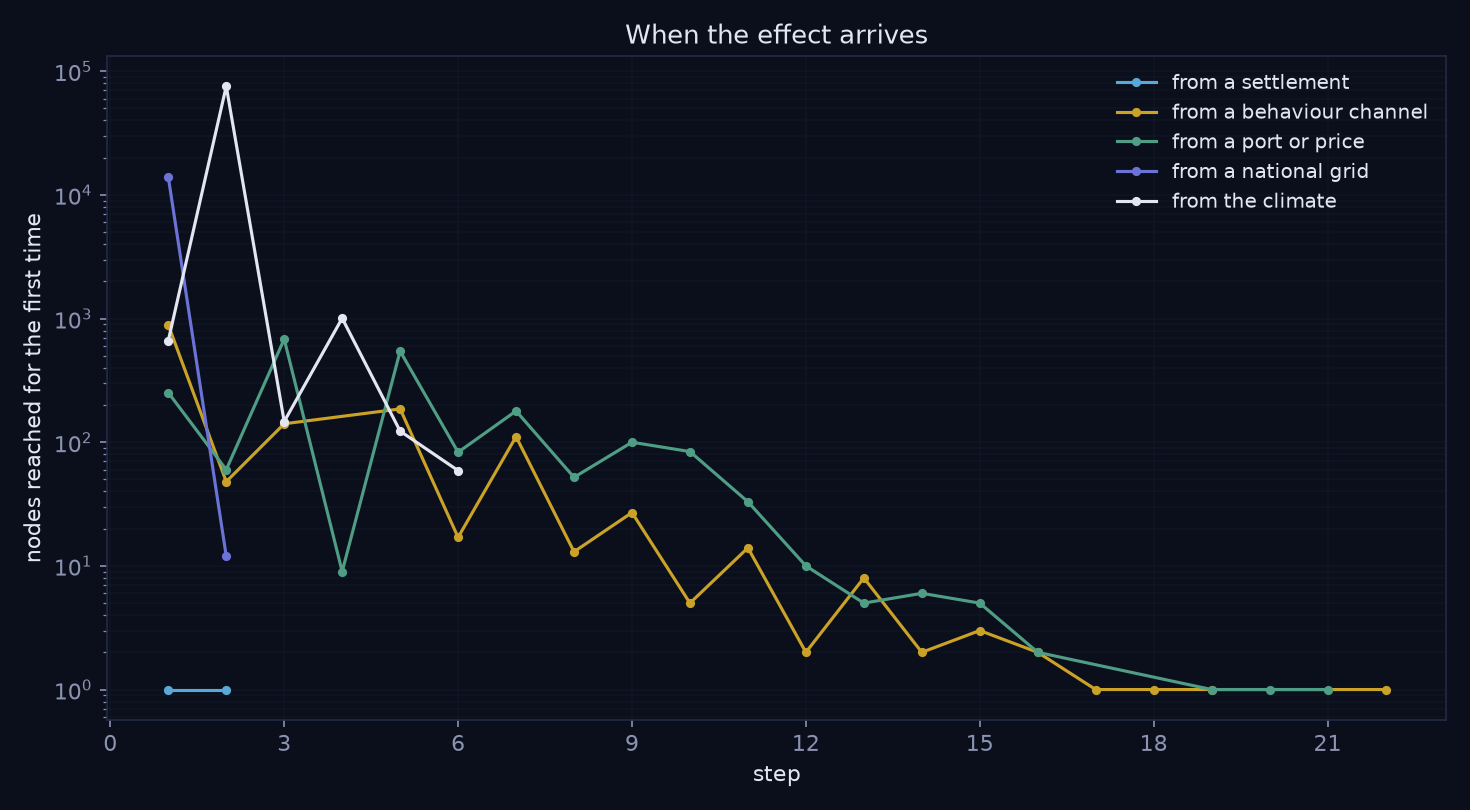
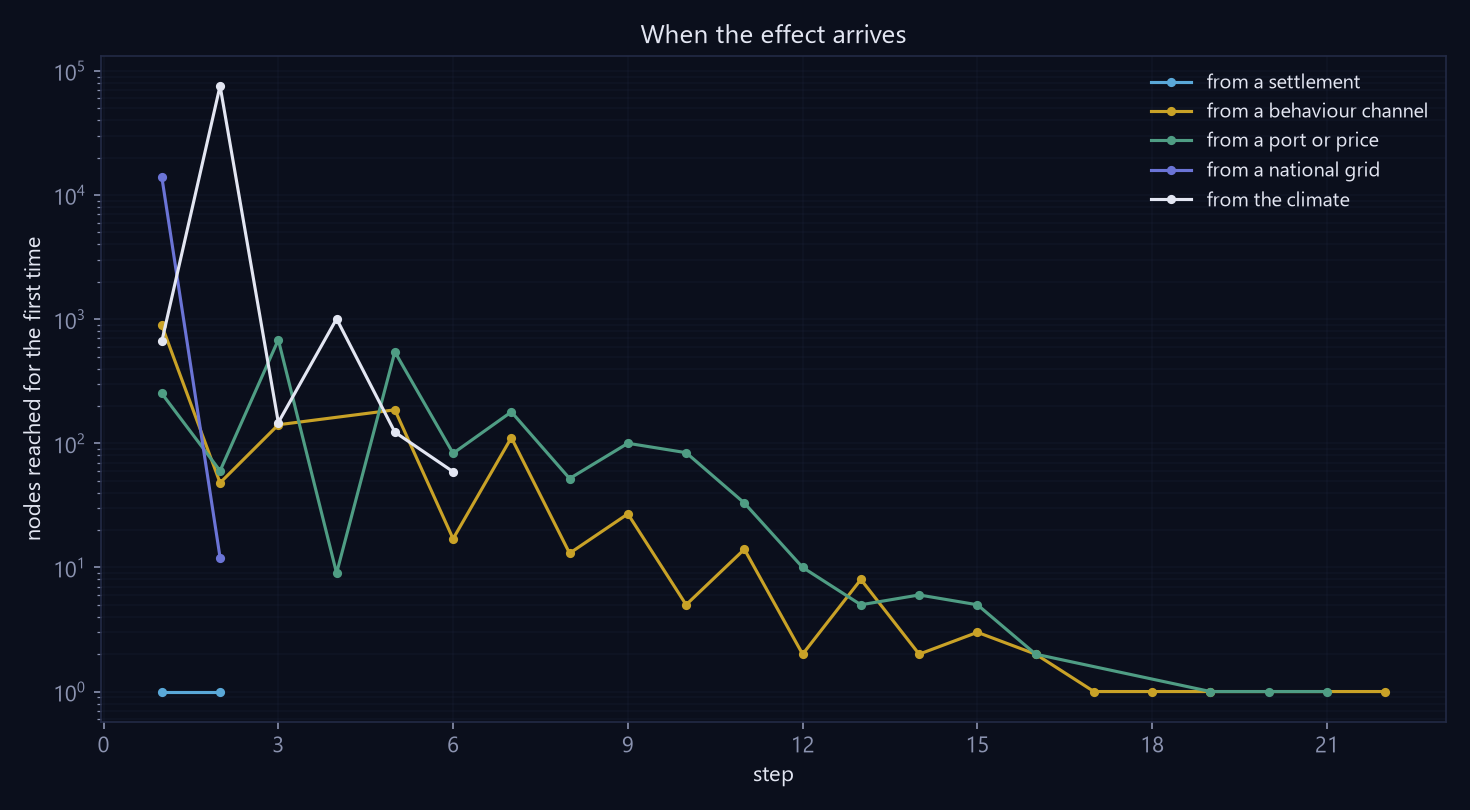
Fix longevity figures and unify figure typography: lq_ranked on a log axis so sub-parity species are visible, lq_orders in two columns instead of a 1:4 sliver, distinguishable class colours, Segoe UI across every generator, corrected order rankings (2026-08-30)

diff --git a/library.html b/library.html
@@ -21,49 +21,49 @@ drawn by hand.</p>
 <div class="card">
 <div class="tag">matplotlib histogram, logarithmic on both axes</div>
 <h3 style="margin-top:4px">Plant capacity spans five orders of magnitude</h3>
-<img class="fig wide" src="assets/02_demand_distribution.png?v=cfe7dbe1" alt="Histogram of generating unit capacity on logarithmic axes">
+<img class="fig wide" src="assets/02_demand_distribution.png?v=44a64d50" alt="Histogram of generating unit capacity on logarithmic axes">
 <p>Every generating unit in the model counted by its capacity. Both axes are logarithmic, because the range runs from a hundred-kilowatt rooftop array to a gigawatt station, and a linear axis would draw all but the largest as a single bar against the origin. The shape is the ordinary one for infrastructure: most units are small, and the few large ones carry a disproportionate share of the total. Capacity is what weights a plant&rsquo;s link to its grid, so this is also the distribution of how much any one plant can matter.</p>
 
 </div><div class="card">
 <div class="tag">matplotlib box plot</div>
 <h3 style="margin-top:4px">How strongly each type of node resists change</h3>
-<img class="fig wide" src="assets/04_inertia_by_type.png?v=374d9823" alt="How strongly each type of node resists change">
+<img class="fig wide" src="assets/04_inertia_by_type.png?v=f939f6a0" alt="How strongly each type of node resists change">
 <p>Inertia controls the speed of a node. A recorded event has the lowest inertia because a disaster happens at once. Behaviour channels have the highest inertia because habits change over years. Price benchmarks cover a range, because each one takes its value from its own measured volatility. This single parameter produces the order in which effects arrive across the model.</p>
 
 </div><div class="card">
 <div class="tag">matplotlib scatter, logarithmic on both axes</div>
 <h3 style="margin-top:4px">The structure of the links between nodes</h3>
-<img class="fig wide" src="assets/05_link_structure.png?v=4bd0ae10" alt="The structure of the links between nodes">
+<img class="fig wide" src="assets/05_link_structure.png?v=5562a660" alt="The structure of the links between nodes">
 <p>Each point counts how many nodes hold a given number of links. Both axes are logarithmic, and the result falls close to a straight line: a great many nodes with one or two links, a very small number with thousands. The model contains 197,068 links in total, of which 1,144 are negative, and a negative link carries relief rather than stress. The title records how many nodes hold no links at all, which is the honest measure of how much of the atlas a change can never reach.</p>
 
 </div><div class="card">
 <div class="tag">matplotlib horizontal bar, annotated, log scale</div>
 <h3 style="margin-top:4px">How far one change travels, by the layer it starts in</h3>
-<img class="fig wide" src="assets/06_scenario_reach.png?v=7b7b295c" alt="How far one change travels, by the layer it starts in">
+<img class="fig wide" src="assets/06_scenario_reach.png?v=ce0ffe35" alt="How far one change travels, by the layer it starts in">
 <p>Each bar is a change applied to the most connected node in one layer, and its length is the number of other nodes that finished more than 0.02 away from where they started. The axis is logarithmic because the answers span five orders of magnitude: a change at the most connected power plant in the world moves one other node, and a change at the climate moves seventy-eight thousand. The climate is the only node in the model that connects to every country. The spread is the evidence that the propagation discriminates rather than floods.</p>
 
 </div><div class="card">
 <div class="tag">matplotlib, logarithmic count axis</div>
 <h3 style="margin-top:4px">When the effect arrives</h3>
-<img class="fig wide" src="assets/07_arrival_order.png?v=a4bb976c" alt="When the effect arrives, by the layer the change starts in">
+<img class="fig wide" src="assets/07_arrival_order.png?v=eec92298" alt="When the effect arrives, by the layer the change starts in">
 <p>One line per starting layer. Each point counts the nodes reached for the first time at that step, so the area under a line is that layer&rsquo;s total reach. A grid delivers almost everything it is going to deliver in the first two steps, because its plants and districts are its immediate neighbours. A price works through the fuel supplies and the grids behind them and is still reaching new nodes twenty steps later. Physical coupling is fast and shallow; market coupling is slow and deep.</p>
 
 </div><div class="card">
 <div class="tag">matplotlib with twin axes</div>
 <h3 style="margin-top:4px">The model saturates rather than growing without limit</h3>
-<img class="fig wide" src="assets/08_response_curve.png?v=b639c342" alt="The model saturates rather than growing without limit">
+<img class="fig wide" src="assets/08_response_curve.png?v=37720b2f" alt="The model saturates rather than growing without limit">
 <p>A change is applied to the climate, the most widely connected node in the model, and its size is raised in steps from a twentieth to the maximum. The violet line counts the nodes that moved; the gold line gives the mean effect among them. The violet line is nearly vertical and then flat: past about a fifth of full size the change already reaches everything it is ever going to reach, and pushing harder only pushes those same nodes further. The gold line keeps climbing, but with a bend, because the tanh in the calculation bounds every node inside (&minus;1, 1). A price cannot rise without end and a grid cannot fail more than completely.</p>
 
 </div><div class="card">
 <div class="tag">plotnine, grammar of graphics</div>
 <h3 style="margin-top:4px">System size against low carbon share</h3>
-<img class="fig wide" src="assets/09_size_vs_lowcarbon.png?v=4f6c49b3" alt="System size against low carbon share">
+<img class="fig wide" src="assets/09_size_vs_lowcarbon.png?v=452c5f2d" alt="System size against low carbon share">
 <p>Each of the 184 points is one country whose average load is large enough to place on a logarithmic axis. The horizontal position is the size of its power system. The vertical position is the share of its electricity that comes from nuclear, hydro or other renewable sources. The grey line is a loess trend through the cloud. The plot shows that size alone does not decide the low carbon share. Small systems occupy the full range, because a single large hydro station can supply most of a small country.</p>
 
 </div><div class="card">
 <div class="tag">matplotlib, horizontal bar with written values</div>
 <h3 style="margin-top:4px">Where the world&rsquo;s generating capacity sits, by fuel</h3>
-<img class="fig wide" src="assets/10_capacity_by_fuel.png?v=db38614b" alt="The nine largest fuel types by installed capacity, as horizontal bars with the gigawatts and the unit count written beside each">
+<img class="fig wide" src="assets/10_capacity_by_fuel.png?v=2446fb51" alt="The nine largest fuel types by installed capacity, as horizontal bars with the gigawatts and the unit count written beside each">
 <p>The nine largest fuel types in the plant layer, by the capacity installed against each. The figure beside every bar is the total in gigawatts and the number of units carrying it, because the two do not move together: a fuel can hold a great deal of capacity in a few large stations, or the same capacity spread across thousands of small ones. That difference is what decides whether losing one unit matters. This is the same station layer the scatter above aggregates by country, counted by fuel instead.</p>
 
 </div><div class="card">
@@ -76,26 +76,26 @@ drawn by hand.</p>
 </div><div class="card">
 <div class="tag">matplotlib, stacked time series</div>
 <h3 style="margin-top:4px">The two climate series that set the state of the model</h3>
-<img class="fig wide" src="assets/11_climate_record.png?v=40ff5450" alt="The two climate series that set the state of the model">
+<img class="fig wide" src="assets/11_climate_record.png?v=09c9b108" alt="The two climate series that set the state of the model">
 <p>The upper panel is the carbon dioxide record from Mauna Loa. The saw pattern is the growing season of the northern hemisphere. The lower panel is the global temperature anomaly. Both series are read directly into the model. They set the starting state of the two climate nodes. The climate nodes then connect to every national grid, and to the gas and electricity prices, through heating and cooling demand.</p>
 
 </div><div class="card">
 <div class="tag">matplotlib histogram, logarithmic count axis</div>
 <h3 style="margin-top:4px">The earthquakes the model carries</h3>
-<img class="fig wide" src="assets/12_recorded_events.png?v=451b14ca" alt="Histogram of earthquake moment magnitude, logarithmic count axis">
+<img class="fig wide" src="assets/12_recorded_events.png?v=b91a6c8b" alt="Histogram of earthquake moment magnitude, logarithmic count axis">
 <p>Every recorded earthquake that reaches infrastructure, counted by moment magnitude. The count axis is logarithmic because the record follows the usual magnitude and frequency law: each step up in magnitude is roughly an order of magnitude rarer, so a linear axis would show the small events and almost nothing else. In the model each of these is a node, and its magnitude sets the strength of the link from the event to the national grid of the country it struck.</p>
 
 </div><div class="card">
 <div class="tag">matplotlib, computed field and measured series</div>
 <h3 style="margin-top:4px">The space layer</h3>
-<img class="fig wide" src="assets/14_space_layer.png?v=eac55590" alt="Annual mean insolation against latitude, and the measured total solar irradiance">
+<img class="fig wide" src="assets/14_space_layer.png?v=4c674f58" alt="Annual mean insolation against latitude, and the measured total solar irradiance">
 <p>On the left, the annual mean sunlight arriving above the atmosphere at each latitude. This is not data. It is computed from the measured solar constant, the obliquity of 23.44 degrees and the eccentricity of the orbit, integrated over 365 days. The dashed line is the solar constant divided by four, which is what the area-weighted mean of the curve has to equal &mdash; the disc the Earth intercepts over the sphere it radiates from. It agrees to one part in ten thousand, which is the check that the integration is right rather than merely plausible. The equator receives 416 W/m&sup2; and the poles about 174.</p>
 <p>On the right, the measured total solar irradiance, NRLTSI2, with its stated uncertainty as the shaded band. Four solar cycles are visible. The whole vertical range of the panel is two watts in thirteen hundred and sixty, which is the honest scale of the thing the solar minimum scenario perturbs.</p>
 
 </div><div class="card">
 <div class="tag">matplotlib, horizontal bar, log scale</div>
 <h3 style="margin-top:4px">Every node names its source</h3>
-<img class="fig wide" src="assets/13_provenance.png?v=feec08cf" alt="Every node names its source">
+<img class="fig wide" src="assets/13_provenance.png?v=0bf37743" alt="Every node names its source">
 <p>The model records where each node came from. This chart counts the nodes by source. The largest groups are the settlement list from GeoNames and the plant list from the World Resources Institute. The group marked as published studies holds the consumer response values. These values are the only assumed parameters in the model, and they are labelled so that a reader can find them.</p>
 
 </div>

diff --git a/longevity.html b/longevity.html
@@ -52,14 +52,14 @@ member or species count. Click a group to drop into the species inside it.</p>
 <a class="btn ghost" href="downloads/longevity-code.zip">Download code and data</a>
 </div>
 
-<img class="fig wide" src="assets/lq_allometry.png?v=43b17fa5"
+<img class="fig wide" src="assets/lq_allometry.png?v=a7a91e3c"
  alt="Maximum lifespan against adult body mass on logarithmic axes, coloured by
  class, with the fitted global relationship and labelled outliers">
 <p class="small">Lifespan against body mass. The dashed line is the fit across
 every animal in the table. Distance above or below that line, measured within a
 species' own class, is the quotient.</p>
 
-<img class="fig wide" src="assets/lq_ranked.png?v=2e240d16"
+<img class="fig wide" src="assets/lq_ranked.png?v=289af425"
  alt="Species ranked by longevity quotient, from the twelve furthest below
  prediction to the eighteen furthest above">
 <p class="small">The twelve species furthest below their predicted lifespan and
@@ -75,19 +75,28 @@ faint line spanning its lowest to its highest. The geometric mean is the correct
 average for ratios: a species at four times prediction and one at a quarter of
 it should average to one, not to 2.1.</p>
 
-<p>At order rank the bats of Chiroptera<sup class="cite" id="cr2"><a href="#ref2">2</a></sup> lead at two and a half times prediction,
-followed by the perch-like fishes, the parrots, the primates at 1.8, and the
-albatrosses and petrels. At the bottom sit the shrews, moles and hedgehogs of
-Eulipotyphla at 0.37, and the ground birds of Galliformes at 0.43. At family rank
-the bats of Vespertilionidae reach 3.1 and the rockfishes of Sebastidae<sup class="cite" id="cr3"><a href="#ref3">3</a></sup> 3.5.
-Flight, burrowing, venom, armour and simply being difficult to swallow all
-register as raised quotients. Being a ground bird or a small terrestrial
-insectivore registers as the reverse.</p>
+<p>Of the 112 orders holding four or more species, the dories of Zeiformes
+top the list at 3.95 and the egg-laying Monotremata follow at 2.73 &mdash; but
+both rest on a handful of species, seven and four respectively, and a
+geometric mean over four animals is a claim about four animals. The two large
+groups near the top are the ones worth the weight: the bats of
+Chiroptera<sup class="cite" id="cr2"><a href="#ref2">2</a></sup> at 2.68 across
+267 species, and the primates at 2.12 across 350. At the bottom sit the
+tinamous at 0.32, the needlefishes at 0.39 and the jacks at 0.43; the ground
+birds of Galliformes come in at 0.51 and the shrews, moles and hedgehogs of
+Eulipotyphla at 0.58. At family rank the bats of Vespertilionidae reach 3.43
+over 126 species, and the horseshoe bats of Rhinolophidae 3.18, while the
+rockfishes of Sebastidae<sup class="cite" id="cr3"><a href="#ref3">3</a></sup>
+sit at 2.76. Flight, burrowing, venom, armour and simply being difficult to
+swallow all register as raised quotients. Being a ground bird or a small
+terrestrial insectivore registers as the reverse.</p>
 
-<img class="fig wide" src="assets/lq_orders.png?v=30b1f34a"
+<img class="fig wide" src="assets/lq_orders.png?v=6794fffe"
  alt="Bar chart of taxonomic orders ranked by geometric mean longevity quotient">
-<p class="small">Every order holding four or more species, ranked by geometric
-mean quotient. The dashed line is parity with prediction.</p>
+<p class="small">All 112 orders holding four or more species, ranked by
+geometric mean quotient and read left column first. The dashed line is parity
+with prediction: everything in the right-hand column falls short of what its
+members&rsquo; body masses predict.</p>
 
 <h2>Colonies are not individuals</h2>
 
@@ -126,7 +135,7 @@ it appears the moment body mass is divided out.</p>
 quahog 45&times; above it (a real 507-year lifespan), the giant Pacific
 octopus about a twentieth below (dead in five real years).</p>
 
-<img class="fig wide" src="assets/lq_wild_captive.png?v=1972ddb8"
+<img class="fig wide" src="assets/lq_wild_captive.png?v=74cca569"
  alt="Dumbbell chart comparing wild and captive maximum lifespan by species">
 <p class="small">Wild against captive, sorted by the size of the gap. Where
 protection helps most, and where it does not help at all.</p>

diff --git a/heat.html b/heat.html
@@ -57,23 +57,23 @@ per million Btu against the gas boiler&rsquo;s 62.4.</p>
 rising with price to the real break-even at 1.53&cent;/kWh, then on to
 today's real operating point at 6.5&cent; and $20.00.</p>
 
-<img class="fig wide" src="assets/heat_fig2_lcoh_stacked.png?v=c07a8981" alt="Levelised cost of heat for the gas and electric boilers as stacked bars, split into fuel, levelised capital and fixed operations.">
+<img class="fig wide" src="assets/heat_fig2_lcoh_stacked.png?v=c8190bd9" alt="Levelised cost of heat for the gas and electric boilers as stacked bars, split into fuel, levelised capital and fixed operations.">
 <p class="small">Where the money goes in each route. Fuel is almost the whole
 bar on both sides: $4.12 of the gas boiler&rsquo;s $5.13, and $19.44 of the
 electric boiler&rsquo;s $20.00. Capital and fixed operations come to $1.02 on
 the gas side and $0.56 on the electric, which is why the break-even below moves
 with the two fuel prices and almost nothing else.</p>
 
-<img class="fig wide" src="assets/heat_fig1_breakeven_price.png?v=4dfe72c4" alt="Break-even electricity price as a function of the gas price. The line is the locus where the two routes cost the same; below it the electric boiler wins.">
+<img class="fig wide" src="assets/heat_fig1_breakeven_price.png?v=16164e8f" alt="Break-even electricity price as a function of the gas price. The line is the locus where the two routes cost the same; below it the electric boiler wins.">
 <p class="small">Break-even electricity price as a function of the gas price. The line is the locus where the two routes cost the same; below it the electric boiler wins.</p>
 
-<img class="fig wide" src="assets/heat_fig3_costgap_contour.png?v=4c493ec6" alt="Cost gap across the electricity price and gas price plane. The diagonal structure is the spark gap dominating both axes.">
+<img class="fig wide" src="assets/heat_fig3_costgap_contour.png?v=a4cba414" alt="Cost gap across the electricity price and gas price plane. The diagonal structure is the spark gap dominating both axes.">
 <p class="small">Cost gap across the electricity price and gas price plane. The diagonal structure is the spark gap dominating both axes.</p>
 
-<img class="fig wide" src="assets/heat_fig4_tornado.png?v=85fda2ae" alt="Sensitivity of the break-even to every input. Fuel prices dominate; capital and operations barely move it.">
+<img class="fig wide" src="assets/heat_fig4_tornado.png?v=57161040" alt="Sensitivity of the break-even to every input. Fuel prices dominate; capital and operations barely move it.">
 <p class="small">Sensitivity of the break-even to every input. Fuel prices dominate; capital and operations barely move it.</p>
 
-<img class="fig wide" src="assets/heat_fig5_emissions_parity.png?v=4fbadca5" alt="Emissions of both routes against grid carbon intensity. The crossing point is the parity threshold.">
+<img class="fig wide" src="assets/heat_fig5_emissions_parity.png?v=aa76c799" alt="Emissions of both routes against grid carbon intensity. The crossing point is the parity threshold.">
 <p class="small">Emissions of both routes against grid carbon intensity. The crossing point is the parity threshold.</p>
 
 

diff --git a/storage.html b/storage.html
@@ -52,23 +52,23 @@ over about a third as many equivalent cycles as the two-hour case.</p>
 against a dashed line showing what linear growth from the first two would
 have looked like.</p>
 
-<img class="fig wide" src="assets/storage_fig3_duration_value.png?v=e86b60ad" alt="Revenue against storage duration. The curve bends at about four hours.">
+<img class="fig wide" src="assets/storage_fig3_duration_value.png?v=6a63cc6d" alt="Revenue against storage duration. The curve bends at about four hours.">
 <p class="small">Revenue against storage duration. The curve bends at about four hours.</p>
 
-<img class="fig wide" src="assets/storage_fig2_dispatch_week.png?v=5fcce7c5" alt="A summer week of dispatch. Charging fills the solar belly of the day; discharge meets the evening peak.">
+<img class="fig wide" src="assets/storage_fig2_dispatch_week.png?v=5b24d8ed" alt="A summer week of dispatch. Charging fills the solar belly of the day; discharge meets the evening peak.">
 <p class="small">A summer week of dispatch. Charging fills the solar belly of the day; discharge meets the evening peak.</p>
 
-<img class="fig wide" src="assets/storage_fig5_monthly.png?v=a56d6f93" alt="Arbitrage revenue by month for a 1 MW four-hour battery, highest in July and lowest in January.">
+<img class="fig wide" src="assets/storage_fig5_monthly.png?v=af909a27" alt="Arbitrage revenue by month for a 1 MW four-hour battery, highest in July and lowest in January.">
 <p class="small">The same year, by month. Revenue is not spread evenly: July
 earns 2.4 times what January does, and June through September together take 43
 per cent of the year from a third of its days. The battery is paid for the weeks
 when the spread is wide, which is the same reason the duration curve above bends
 where it does.</p>
 
-<img class="fig wide" src="assets/storage_fig4_sensitivity.png?v=4292e72a" alt="Sensitivity to round-trip efficiency and degradation cost.">
+<img class="fig wide" src="assets/storage_fig4_sensitivity.png?v=55cee7e7" alt="Sensitivity to round-trip efficiency and degradation cost.">
 <p class="small">Sensitivity to round-trip efficiency and degradation cost.</p>
 
-<img class="fig wide" src="assets/storage_fig1_prices.png?v=8be86fca" alt="The price series: duration curve and average daily shape.">
+<img class="fig wide" src="assets/storage_fig1_prices.png?v=e64f3c8b" alt="The price series: duration curve and average daily shape.">
 <p class="small">The price series: duration curve and average daily shape.</p>
 
 <h2>Method</h2>

diff --git a/index.html b/index.html
@@ -33,12 +33,12 @@ try{var m=localStorage.getItem('motion');if(m!=='on'&&m!=='off')m=matchMedia('(p
 </div>
 
 <div class="mosaic" aria-hidden="true">
-<a href="library.html" tabindex="-1"><img src="assets/07_arrival_order.png?v=a4bb976c" alt=""></a>
-<a href="library.html" tabindex="-1"><img src="assets/02_demand_distribution.png?v=cfe7dbe1" alt=""></a>
-<a href="library.html" tabindex="-1"><img src="assets/09_size_vs_lowcarbon.png?v=4f6c49b3" alt=""></a>
-<a href="library.html" tabindex="-1"><img src="assets/04_inertia_by_type.png?v=374d9823" alt=""></a>
-<a href="library.html" tabindex="-1"><img src="assets/05_link_structure.png?v=4bd0ae10" alt=""></a>
-<a href="library.html" tabindex="-1"><img src="assets/06_scenario_reach.png?v=7b7b295c" alt=""></a>
+<a href="library.html" tabindex="-1"><img src="assets/07_arrival_order.png?v=eec92298" alt=""></a>
+<a href="library.html" tabindex="-1"><img src="assets/02_demand_distribution.png?v=44a64d50" alt=""></a>
+<a href="library.html" tabindex="-1"><img src="assets/09_size_vs_lowcarbon.png?v=452c5f2d" alt=""></a>
+<a href="library.html" tabindex="-1"><img src="assets/04_inertia_by_type.png?v=f939f6a0" alt=""></a>
+<a href="library.html" tabindex="-1"><img src="assets/05_link_structure.png?v=5562a660" alt=""></a>
+<a href="library.html" tabindex="-1"><img src="assets/06_scenario_reach.png?v=ce0ffe35" alt=""></a>
 </div>
 
 <img class="fig wide" src="assets/energy_model_chart.png?v=fbbcf9ef"
